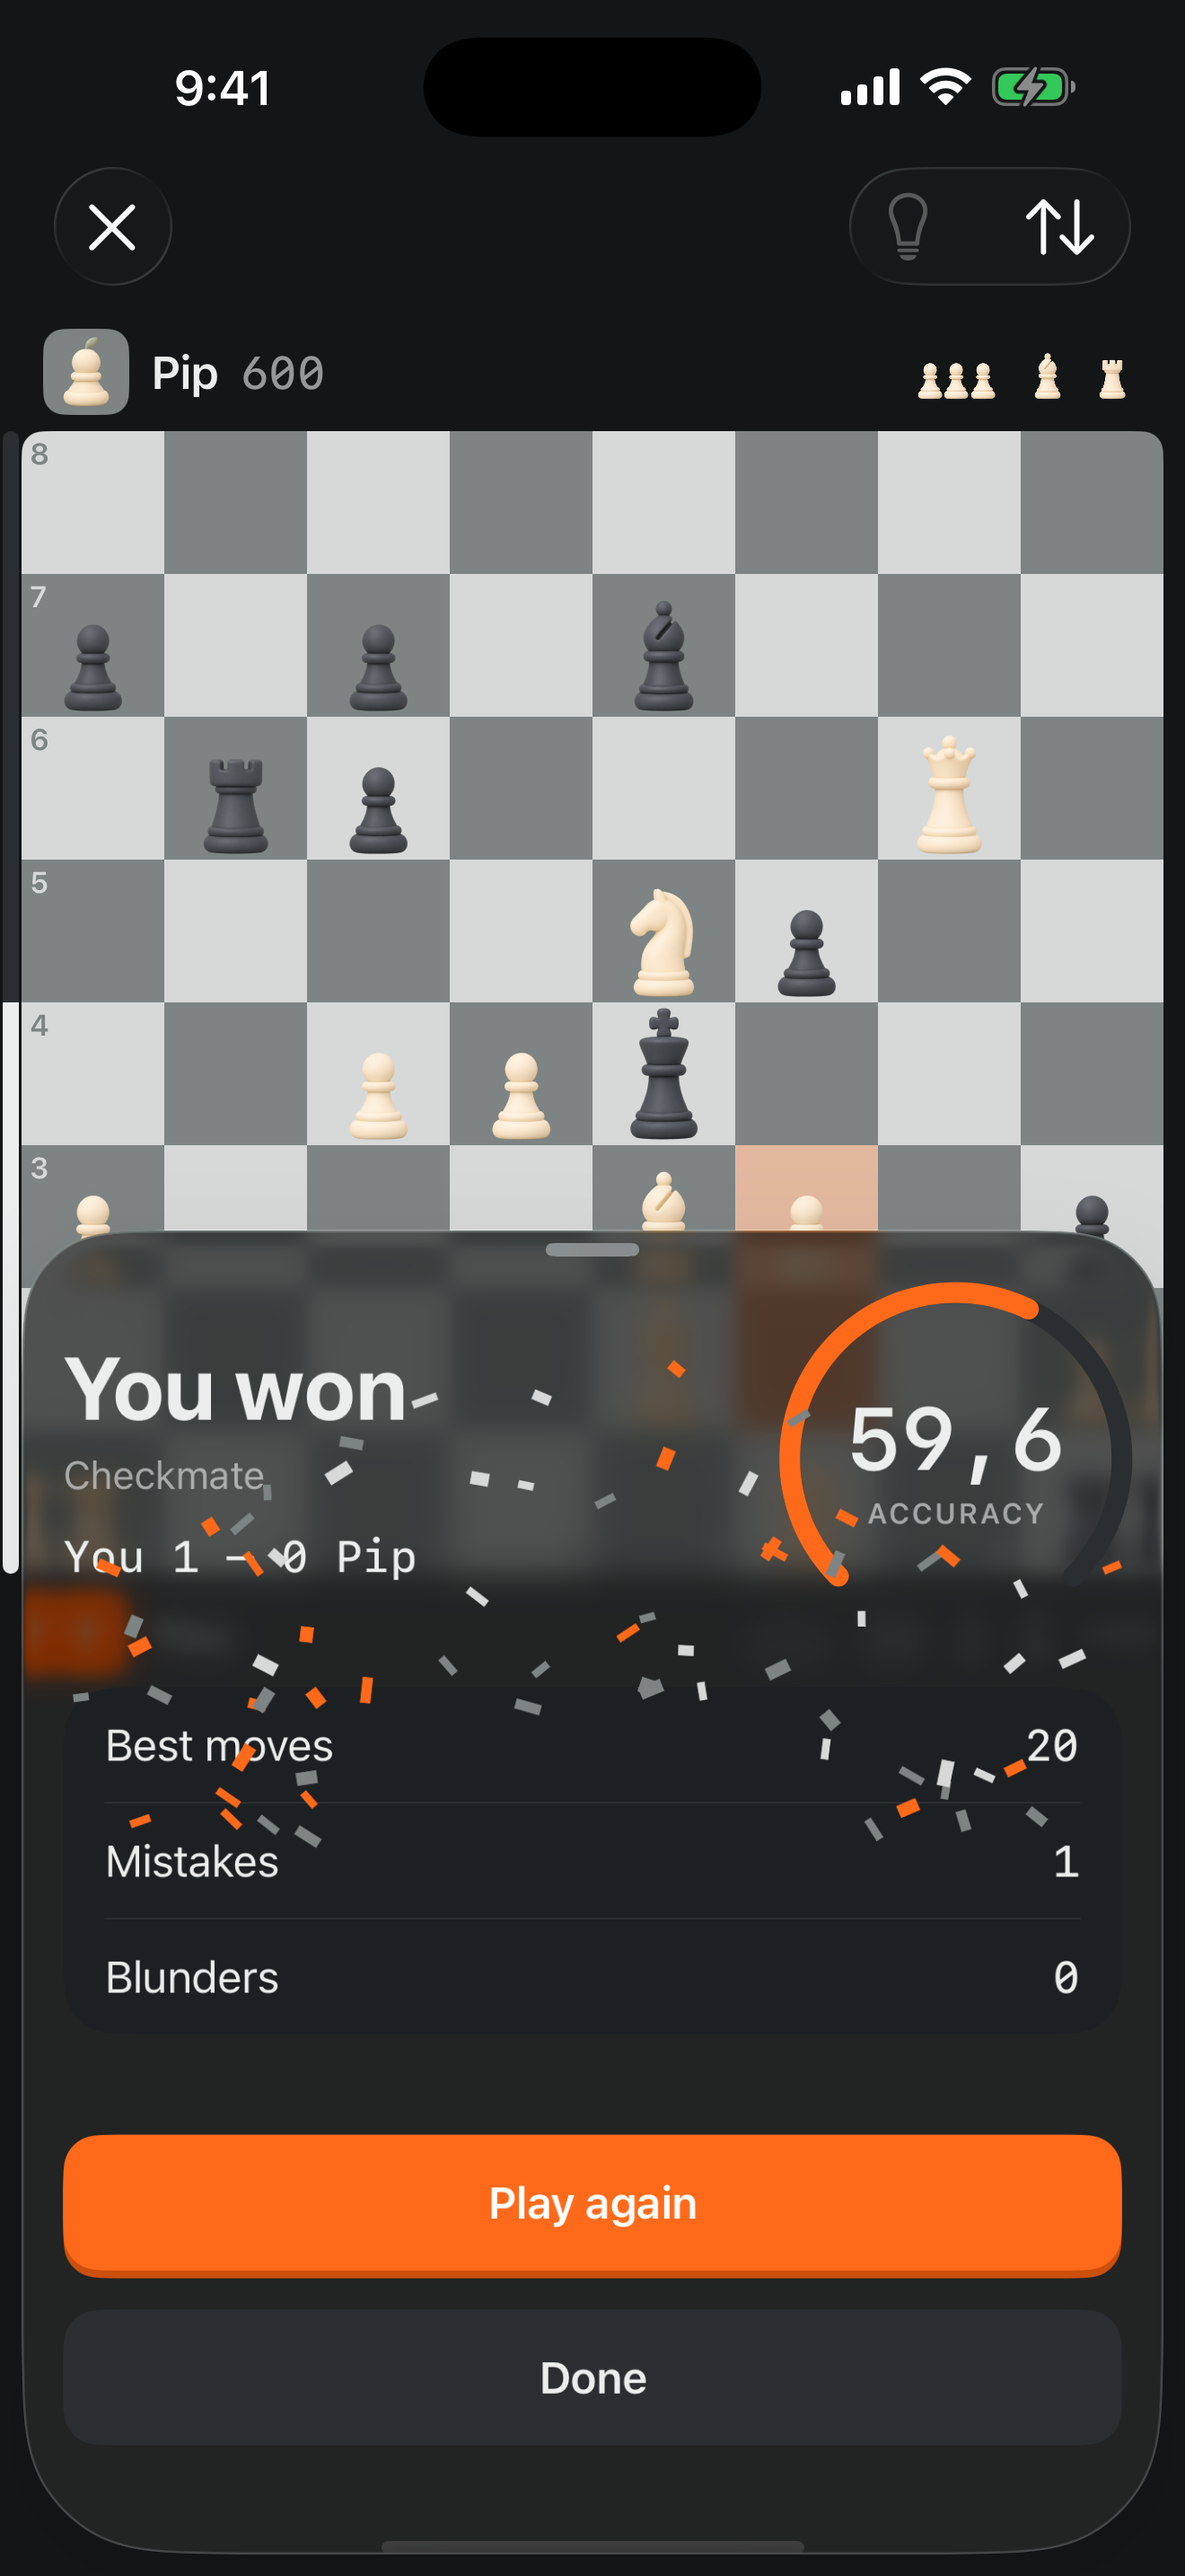
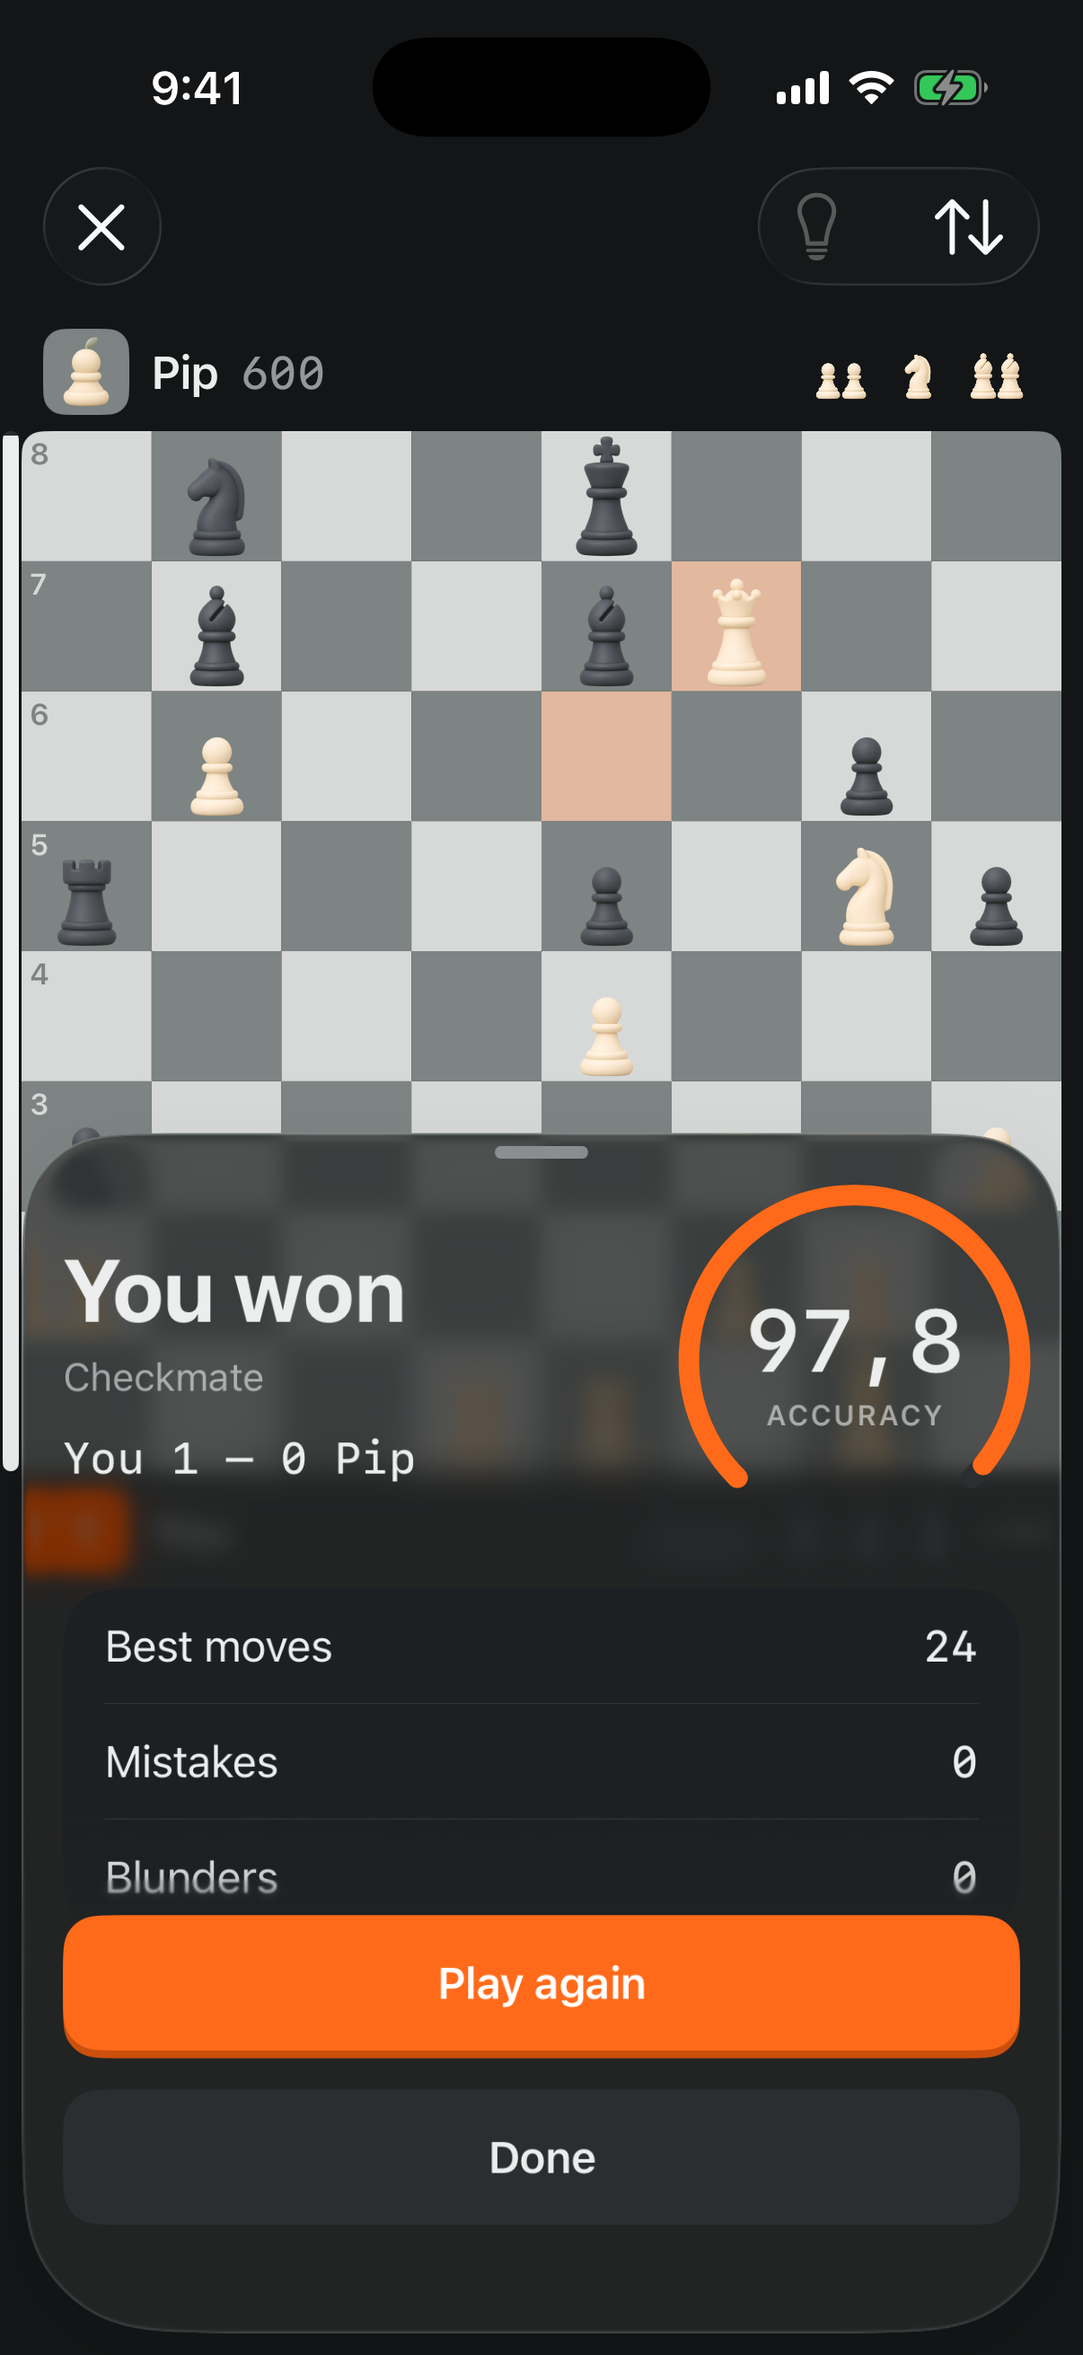
docs(design): retake game-over screenshot after the mate fix; autoplay logs the grades

diff --git a/App/Features/Play/DebugAutoplay.swift b/App/Features/Play/DebugAutoplay.swift
@@ -82,7 +82,8 @@ enum DebugAutoplay {
             case .over:
                 log("over \(session.pendingGradeCount)")
                 while session.pendingGradeCount > 0 { try? await Task.sleep(for: .milliseconds(300)) }
-                log("graded")
+                let graded = session.verdicts.values.sorted { $0.ply < $1.ply }
+                log("graded " + graded.map { "\($0.san):\($0.classification.rawValue)" }.joined(separator: " "))
                 return
             case .engineError:
                 log("engineError -> retry")
